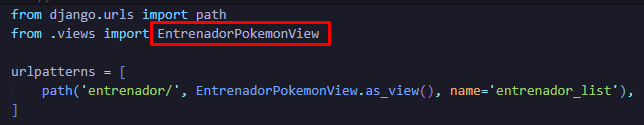
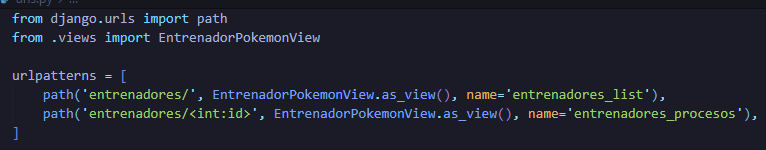
reemplazar img14

diff --git a/api/views.py b/api/views.py
@@ -1,3 +1,23 @@
 from django.shortcuts import render
+from django.views import View
+from .models import EntrenadorPokemon
+from django.http.response import JsonResponse
 
 # Create your views here.
+class EntrenadorPokemonView(View):
+    def get(self, request, id=0):
+        if id>0:
+            entrenadores = list(EntrenadorPokemon.objects.filter(id=id).values())
+            if len(entrenadores)>0:
+                entrenador=entrenadores[0]
+                datos={'message':"Entrenador encontrado", 'entrenador':entrenador}
+            else:
+                datos={'message':"Entrenador no encontrado..."}
+            return JsonResponse(datos)
+        else:
+            entrenadores = list(EntrenadorPokemon.objects.values())
+            if len(entrenadores)>0:
+                datos={'message':"Entrenador encontrado", 'entrenadores':entrenadores}
+            else:
+                datos={'message':"Entrenador no encontrado..."}
+            return JsonResponse(datos)

diff --git a/api/urls.py b/api/urls.py
@@ -2,6 +2,7 @@ from django.urls import path
 from .views import EntrenadorPokemonView
 
 urlpatterns = [
-    path('entrenador/', EntrenadorPokemonView.as_view(), name='entrenador_list'),
+    path('entrenadores/', EntrenadorPokemonView.as_view(), name='entrenadores_list'),
+    path('entrenadores/<int:id>', EntrenadorPokemonView.as_view(), name='entrenadores_procesos'),
 ]
 
